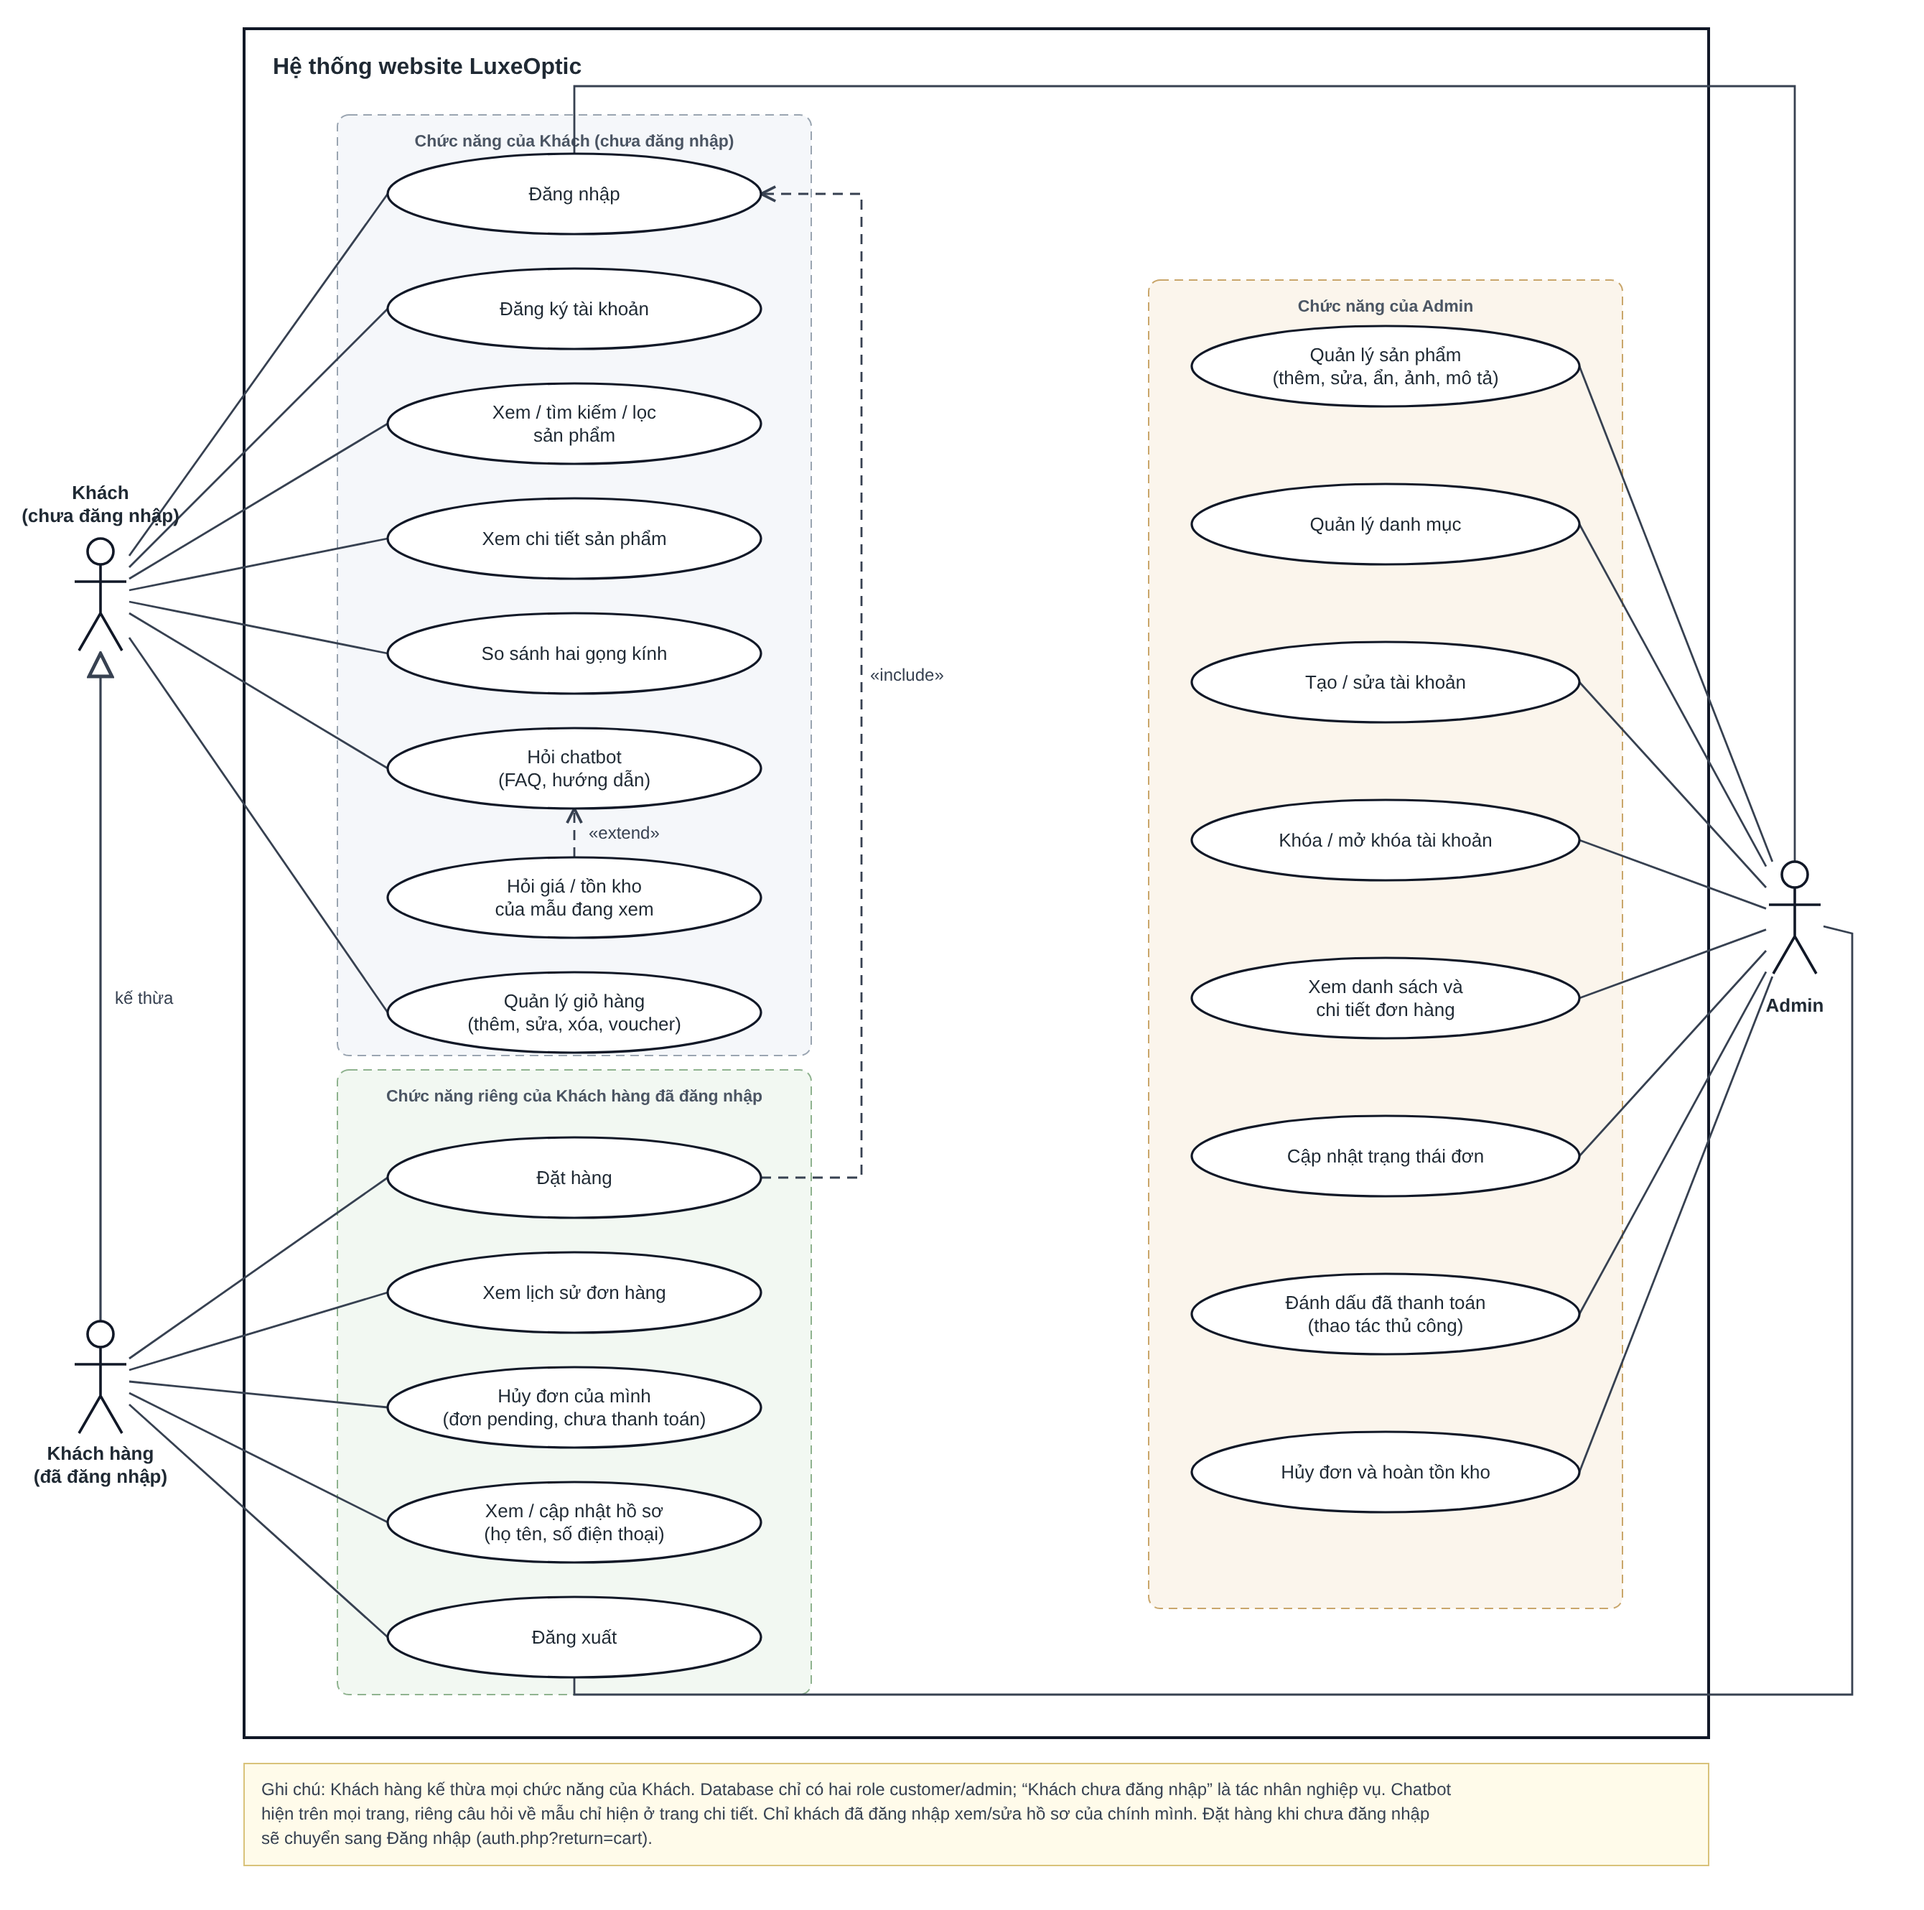
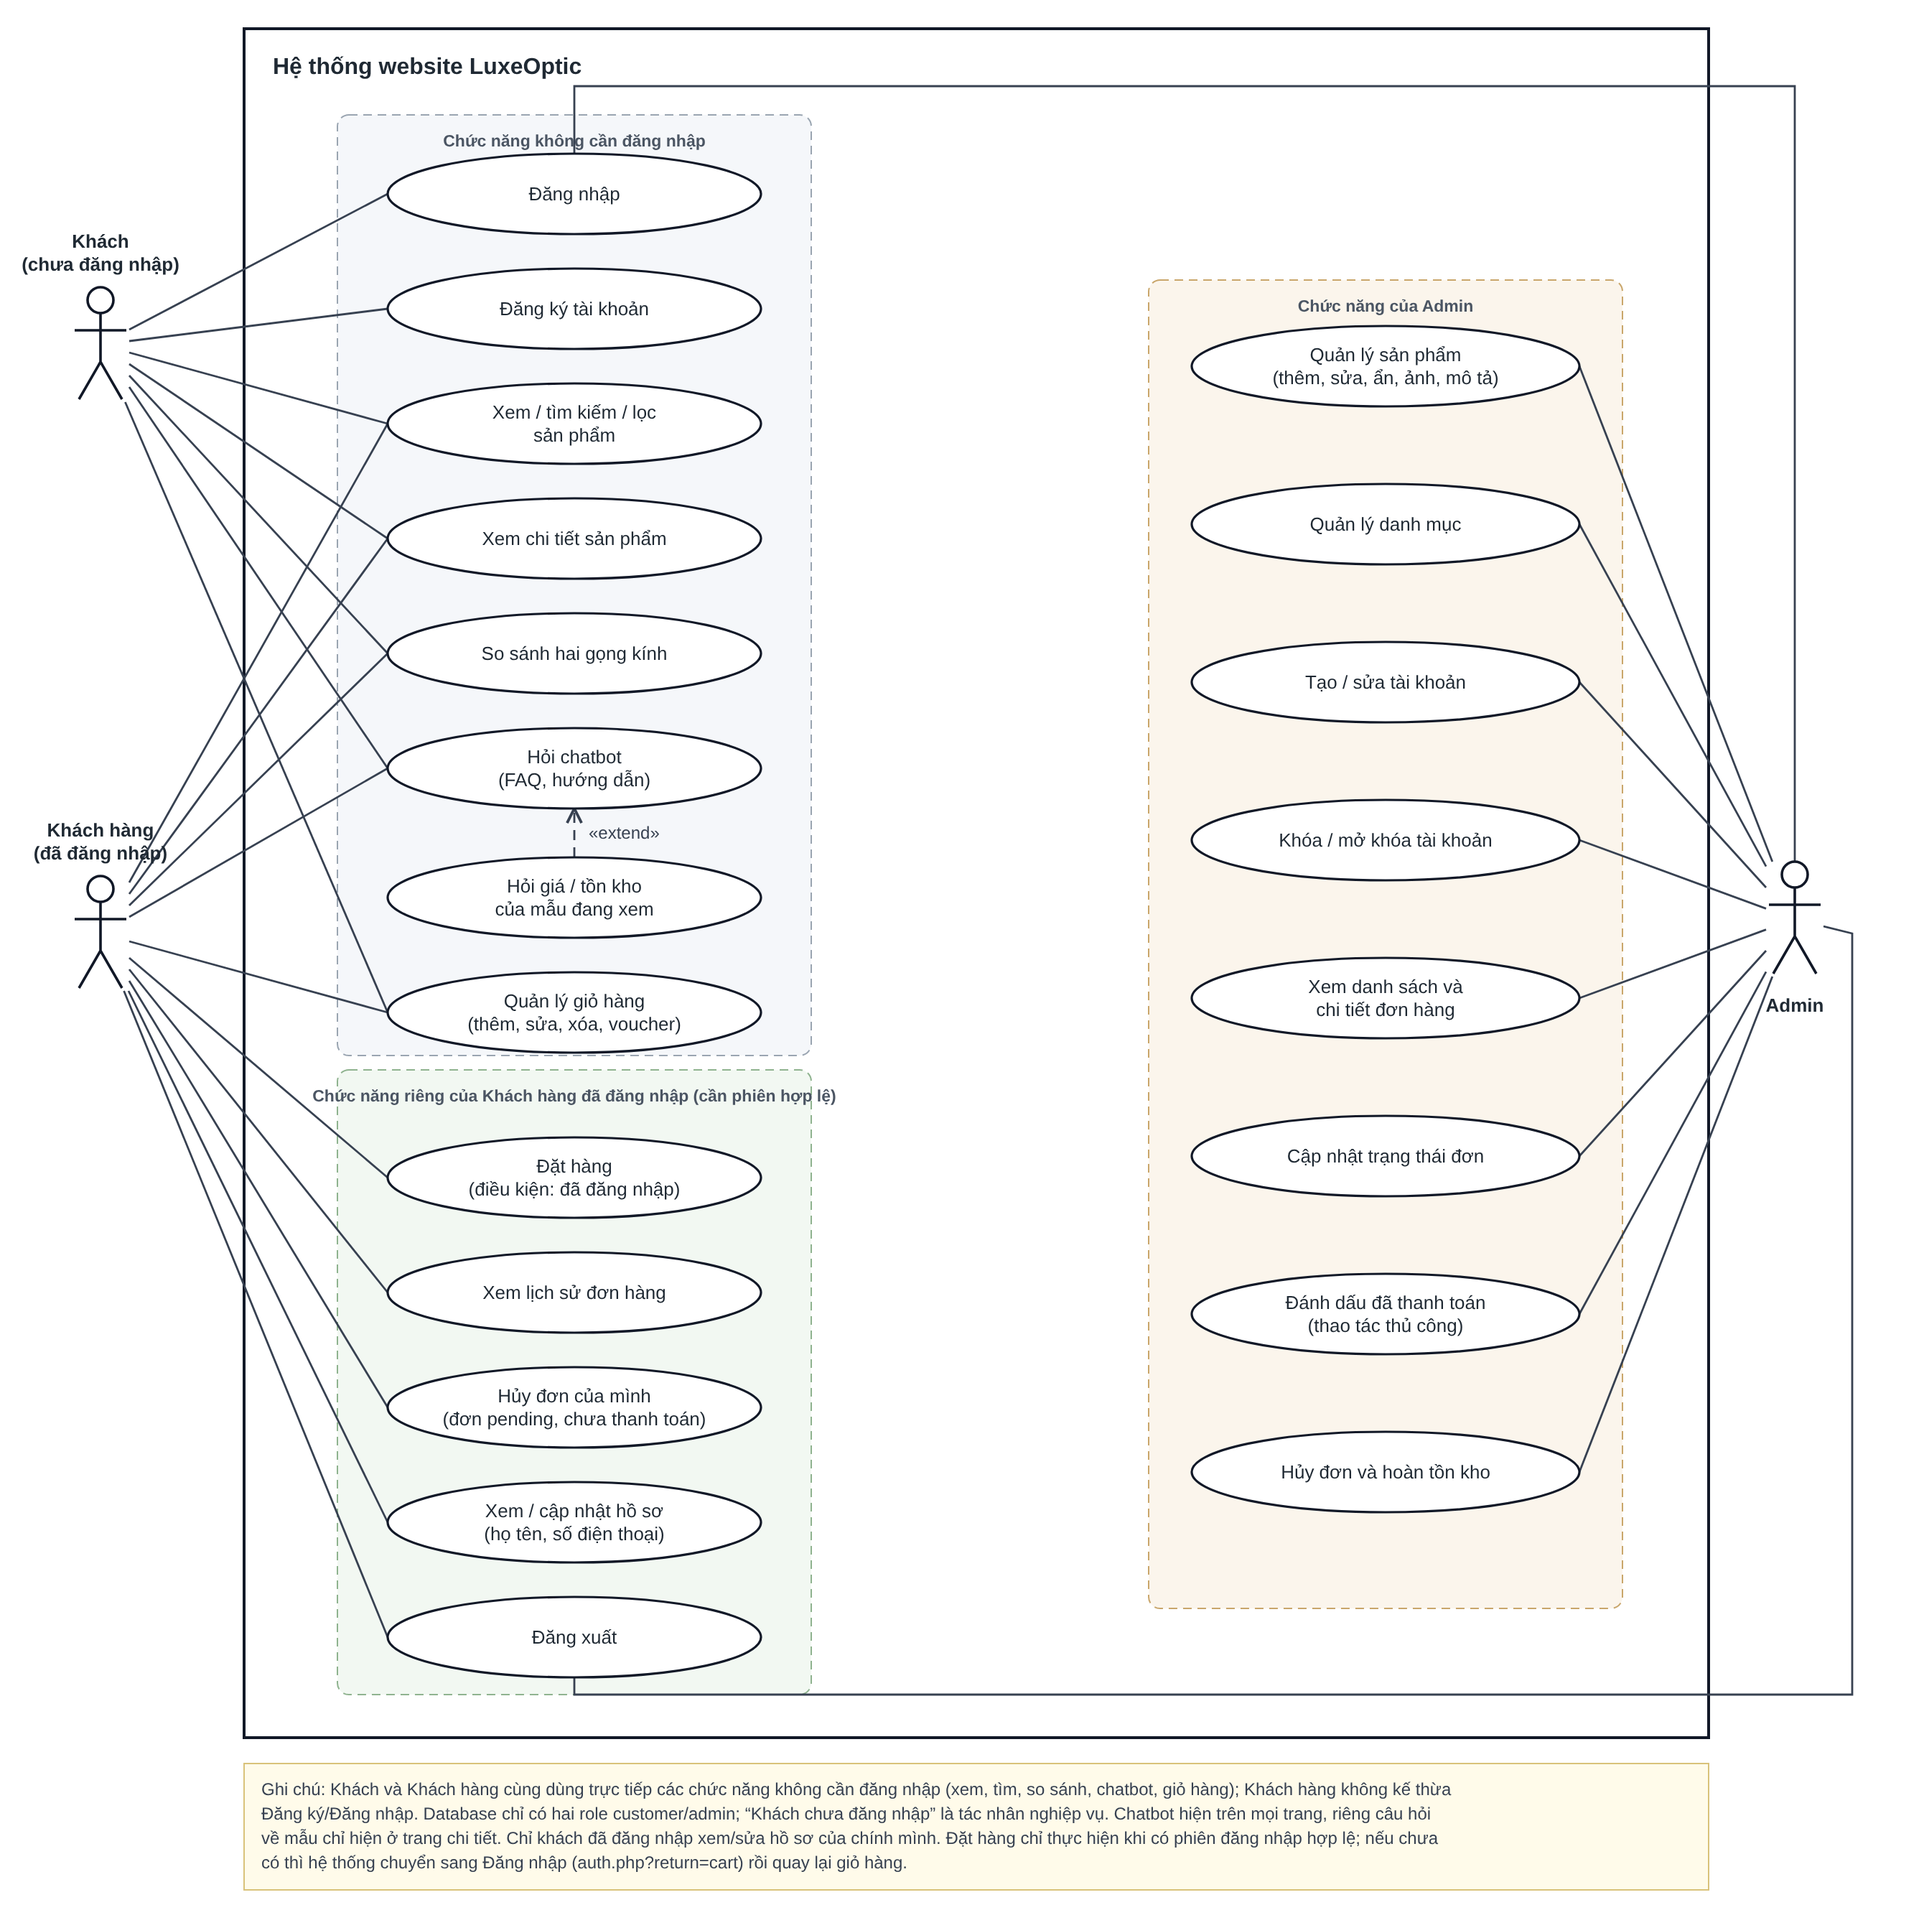
Cap nhat logout ve index.php va so do Use Case theo review PR #1

diff --git a/actions/logout.php b/actions/logout.php
@@ -9,4 +9,4 @@ unset($_SESSION['user_id'], $_SESSION['checkout_token'], $_SESSION['form_state']
 session_regenerate_id(true);
 
 flash('success', 'Bạn đã đăng xuất.');
-redirect('auth.php');
+redirect('index.php');
